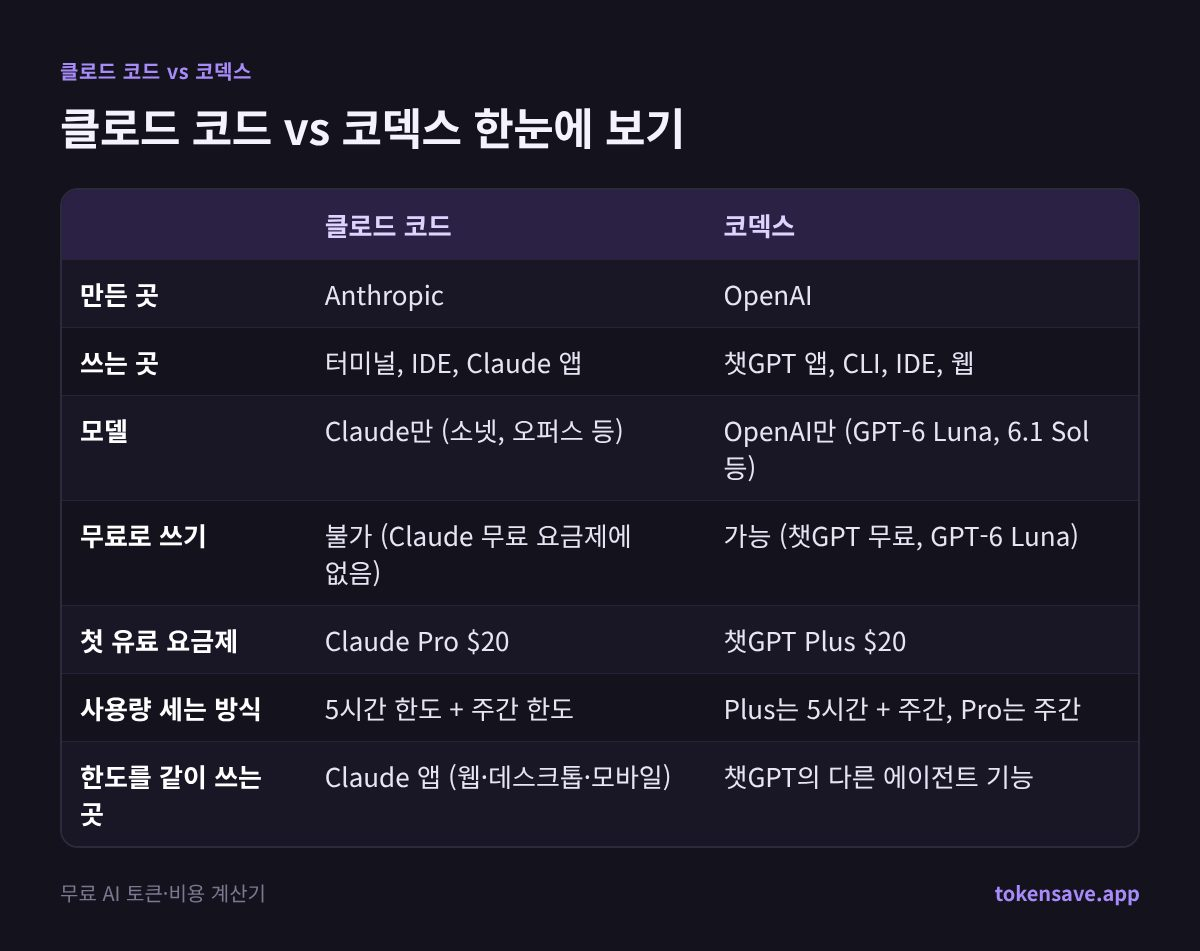
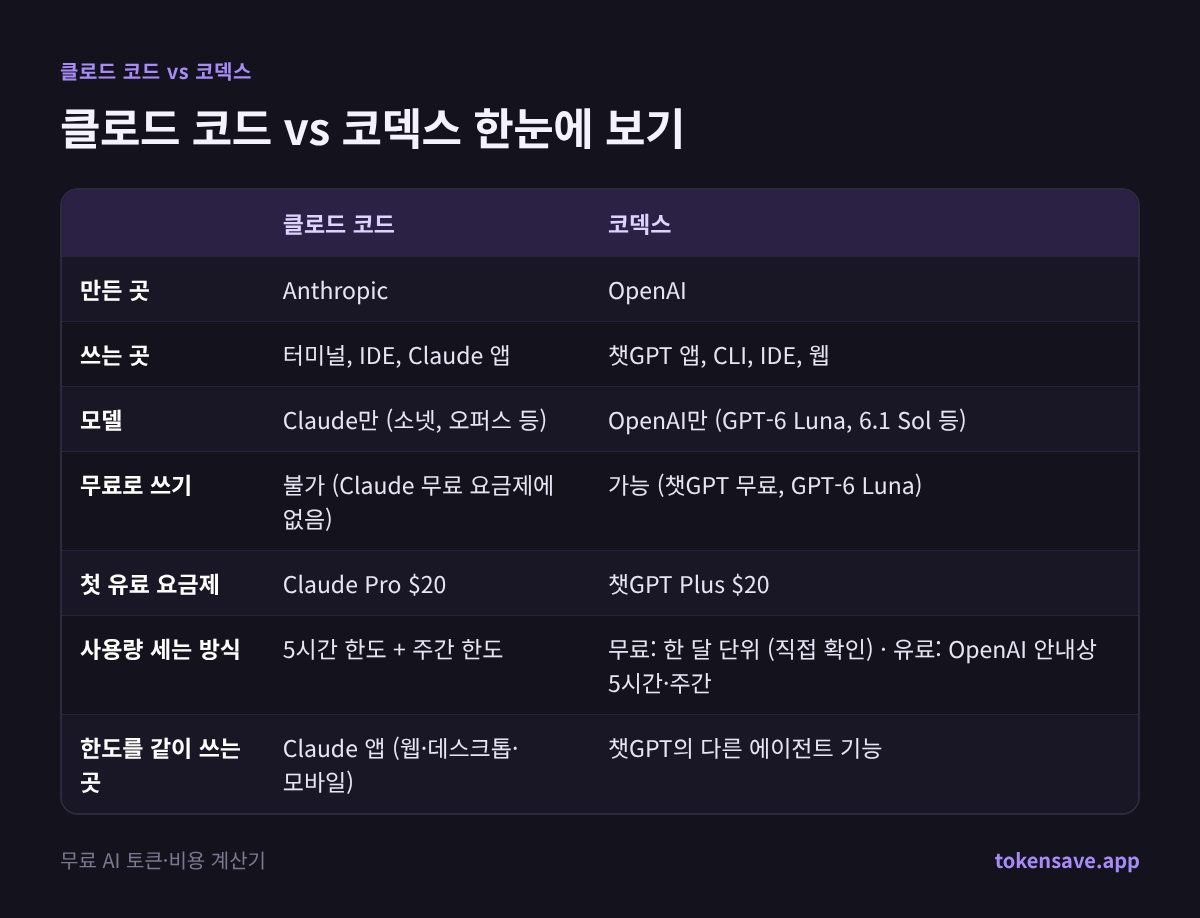
agentcmp-ko: Codex free plan limit is monthly (verified); paid limits marked as OpenAI's guidance
Claude-Session: https://claude.ai/code/session_01W8aXc59ngKVkm4DMWgY3MZ

diff --git a/_source/src/blog/agentcmp-ko.html b/_source/src/blog/agentcmp-ko.html
@@ -1,8 +1,8 @@
 <p><img fetchpriority="high" width="1200" height="630" alt="클로드 코드 vs 코덱스: 같은 프롬프트 실측·요금 비교" src="/claude-code-vs-codex-ko.jpg" /></p>
-<p><strong>클로드 코드 vs 코덱스 한 줄 정리:</strong> 둘 다 월 $20 요금제로 시작하고, 사용량은 5시간·주간 한도로 셉니다. 같은 프롬프트로 직접 돌려 보니 작은 작업에서는 속도가 비슷했고(37초 대 39초), 코덱스는 무료 요금제로도 돌아갔습니다. 독립 벤치마크에서는 클로드 코드가 점수가 높고(68 대 63), 코덱스는 작업당 비용이 93% 낮았습니다. 이 글에서는 요금제, 사용량 계산 방식, 직접 테스트 결과, 벤치마크, 용도별 선택 기준까지 한 번에 비교합니다.</p>
+<p><strong>클로드 코드 vs 코덱스 한 줄 정리:</strong> 둘 다 월 $20 요금제로 시작합니다. 클로드 코드는 5시간·주간 한도로 사용량을 세고, 코덱스 무료 요금제는 직접 써 보니 한 달 단위 한도였습니다. 같은 프롬프트로 직접 돌려 보니 작은 작업에서는 속도가 비슷했고(37초 대 39초), 코덱스는 무료 요금제로도 돌아갔습니다. 독립 벤치마크에서는 클로드 코드가 점수가 높고(68 대 63), 코덱스는 작업당 비용이 93% 낮았습니다. 이 글에서는 요금제, 사용량 계산 방식, 직접 테스트 결과, 벤치마크, 용도별 선택 기준까지 한 번에 비교합니다.</p>
 <p>클로드 코드(Claude Code)는 Anthropic이, 코덱스(Codex)는 OpenAI가 만든 AI 코딩 에이전트입니다. 요금표만 보면 $20, $100, $200 요금제가 나란히 있어서 비슷해 보입니다. 하지만 무료로 쓸 수 있는지, 한도를 어떻게 세는지, 작업 하나에 토큰을 얼마나 쓰는지가 꽤 다릅니다. 요금은 2026년 10월 11~14일 각 회사 공식 페이지 기준입니다.</p>
 <h2>클로드 코드 vs 코덱스 한눈에 보기</h2>
-<p><img loading="lazy" width="1200" height="951" alt="클로드 코드 vs 코덱스 한눈에 보기: 클로드 코드, 코덱스" src="/claude-code-vs-codex-ko-2.jpg" /></p>
+<p><img loading="lazy" width="1200" height="918" alt="클로드 코드 vs 코덱스 한눈에 보기: 클로드 코드, 코덱스" src="/claude-code-vs-codex-ko-2.jpg" /></p>
 <div class="overflow-x-auto"><table>
 <thead>
 <tr>
@@ -40,7 +40,7 @@
 <tr>
 <td>사용량 세는 방식</td>
 <td>5시간 한도 + 주간 한도</td>
-<td>Plus는 5시간 + 주간, Pro는 주간</td>
+<td>무료: 한 달 단위 (직접 확인) · 유료: OpenAI 안내상 5시간·주간</td>
 </tr>
 <tr>
 <td>한도를 같이 쓰는 곳</td>
@@ -104,9 +104,9 @@
 <h2>사용량은 어떻게 세나</h2>
 <h3>클로드 코드: 5시간 한도와 주간 한도</h3>
 <p>5시간 단위 한도와 그 위의 주간 한도가 있고, 둘 다 Claude 앱과 같이 씁니다. 앱에서 긴 대화를 하면 코딩에 쓸 한도가 그만큼 줄어듭니다. Max 요금제는 Fable 모델용 주간 한도가 따로 있습니다. 남은 양은 클로드 코드 안에서 <strong>/usage</strong>로 확인합니다. Anthropic은 한도를 토큰 수로 공개하지 않습니다. 자세한 내용은 <a href="/ko/blog/claude-code-sayongnyang-hando">클로드 코드 사용량 한도 정리</a>를 보세요.</p>
-<h3>코덱스: 5시간·주간 한도, 무료는 월 미터</h3>
-<p>OpenAI 안내 기준으로 Plus와 Business는 5시간 단위 한도가 있고 주간 한도가 추가로 걸릴 수 있습니다. Pro 요금제는 현재 5시간 한도 없이 주간 한도만 있습니다. 내 컴퓨터에서 돌리는 로컬 작업과 클라우드 작업은 같은 사용량을 나눠 쓰고, 클라우드 작업이 더 많이 씁니다. 클라우드 작업은 Plus부터 됩니다.</p>
-<p>우리 무료 계정에서는 5시간이나 주간 미터가 없었습니다. '1개월'짜리 사용량 막대 하나만 보였습니다. 자세한 내용은 <a href="/ko/blog/codex-sayongnyang-hando">코덱스 사용량 한도 정리</a>를 보세요.</p>
+<h3>코덱스: 무료는 한 달 단위, 유료는 5시간·주간</h3>
+<p><strong>무료 요금제 (직접 확인):</strong> 우리 무료 계정에는 5시간이나 주간 미터가 없었습니다. '1개월'짜리 사용량 막대 하나만 있고, 초기화도 한 달 뒤였습니다. 위 테스트의 "월 사용량 1%"가 이 막대 기준입니다.</p>
+<p><strong>유료 요금제 (OpenAI 안내 기준):</strong> 저는 Plus나 Pro를 써 보지 않아서, 아래는 OpenAI 안내를 옮긴 것입니다. Plus와 Business는 5시간 단위 한도가 있고 주간 한도가 추가로 걸릴 수 있습니다. Pro 요금제는 5시간 한도 없이 주간 한도만 있다고 안내합니다. 내 컴퓨터에서 돌리는 로컬 작업과 클라우드 작업은 같은 사용량을 나눠 쓰고, 클라우드 작업은 Plus부터 됩니다. 자세한 내용은 <a href="/ko/blog/codex-sayongnyang-hando">코덱스 사용량 한도 정리</a>를 보세요.</p>
 <ul>
 <li><strong>둘 다 작업당 가격을 숨깁니다.</strong> 화면에는 달러가 아니라 한도의 몇 %를 썼는지만 나옵니다.</li>
 <li><strong>한도가 차면 기다리거나 추가 사용량을 삽니다.</strong> 클로드 코드는 사용 크레딧을 켜거나 API로 넘어갈 수 있습니다.</li>
@@ -266,7 +266,7 @@
 <tr>
 <td>과금 방식</td>
 <td>5시간·주간 한도</td>
-<td>5시간·주간 한도</td>
+<td>무료는 월 단위, 유료는 5시간·주간</td>
 <td>월 사용량을 API 가격으로 차감</td>
 </tr>
 <tr>
@@ -335,7 +335,7 @@
 <ul>
 <li><strong>둘 다 $20로 시작하지만 무료로 쓸 수 있는 건 코덱스뿐입니다.</strong> 우리 테스트에서 무료 요금제로도 충분히 돌아갔습니다.</li>
 <li><strong>클로드 코드는 높은 effort에서 작업당 더 많은 일을 합니다.</strong> 독립 벤치마크 점수가 가장 높고, 그만큼 토큰을 많이 씁니다.</li>
-<li><strong>코덱스는 가볍고 경제적입니다.</strong> 작업당 비용과 시간이 적고, Pro 요금제는 5시간 한도 없이 주간 한도만 있습니다.</li>
+<li><strong>코덱스는 가볍고 경제적입니다.</strong> 작업당 비용과 시간이 적고, 무료 요금제의 한 달 한도로도 작은 작업은 넉넉했습니다.</li>
 <li><strong>매일 많이 쓴다면 $100·$200 정액 요금제가 API보다 보통 쌉니다.</strong></li>
 </ul>
 <h2>자주 묻는 질문</h2>
